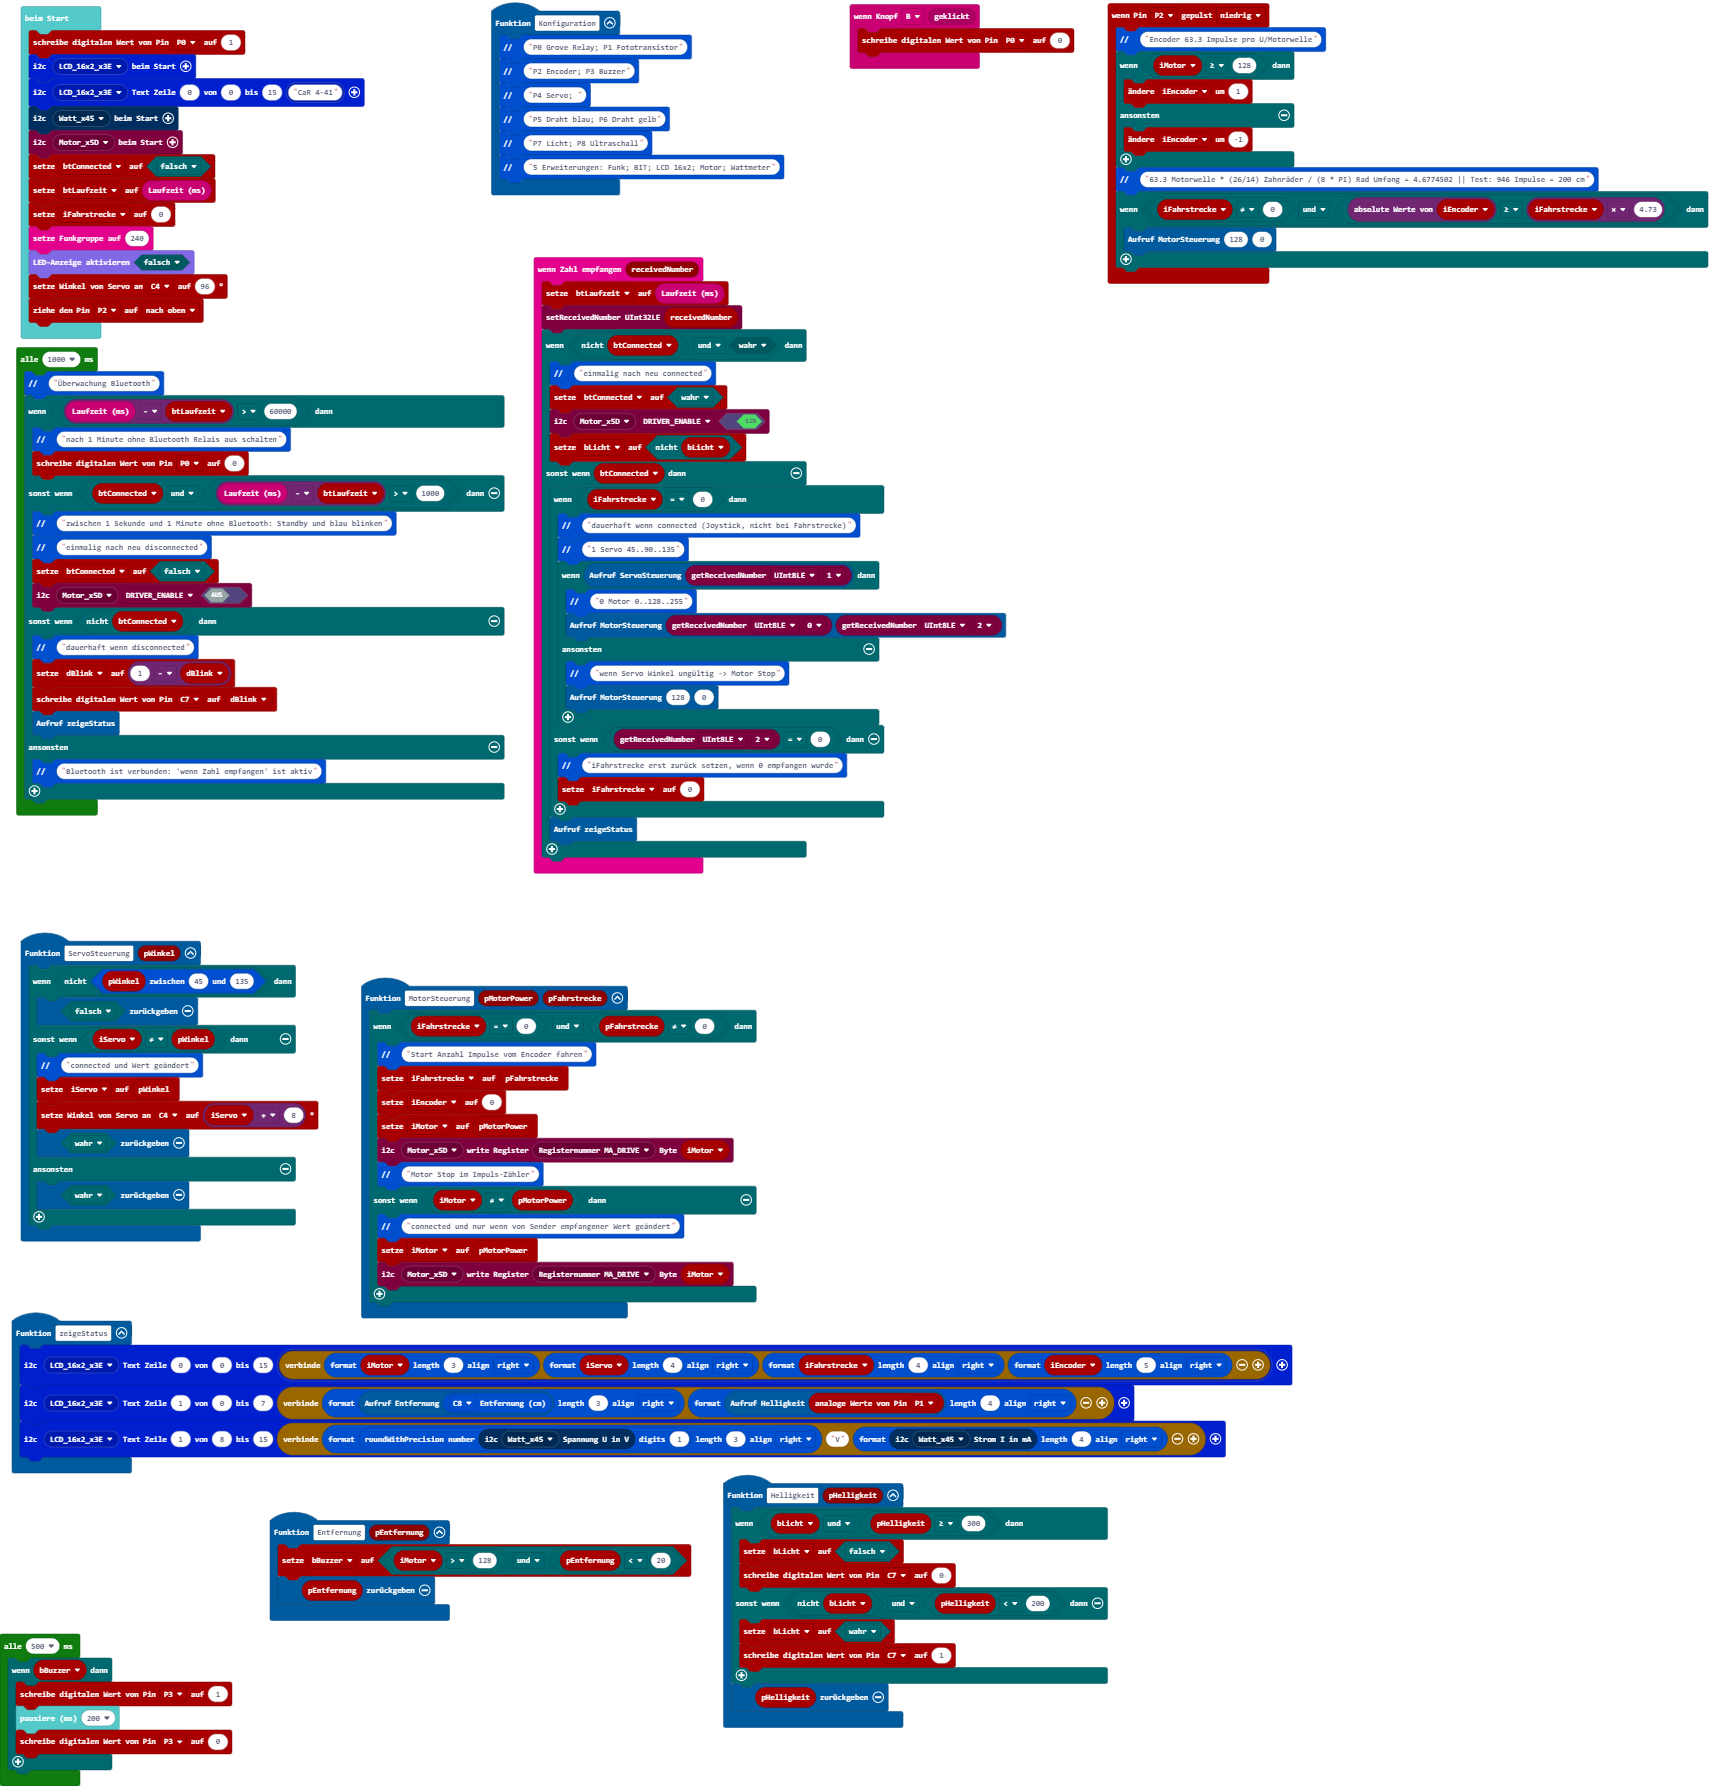
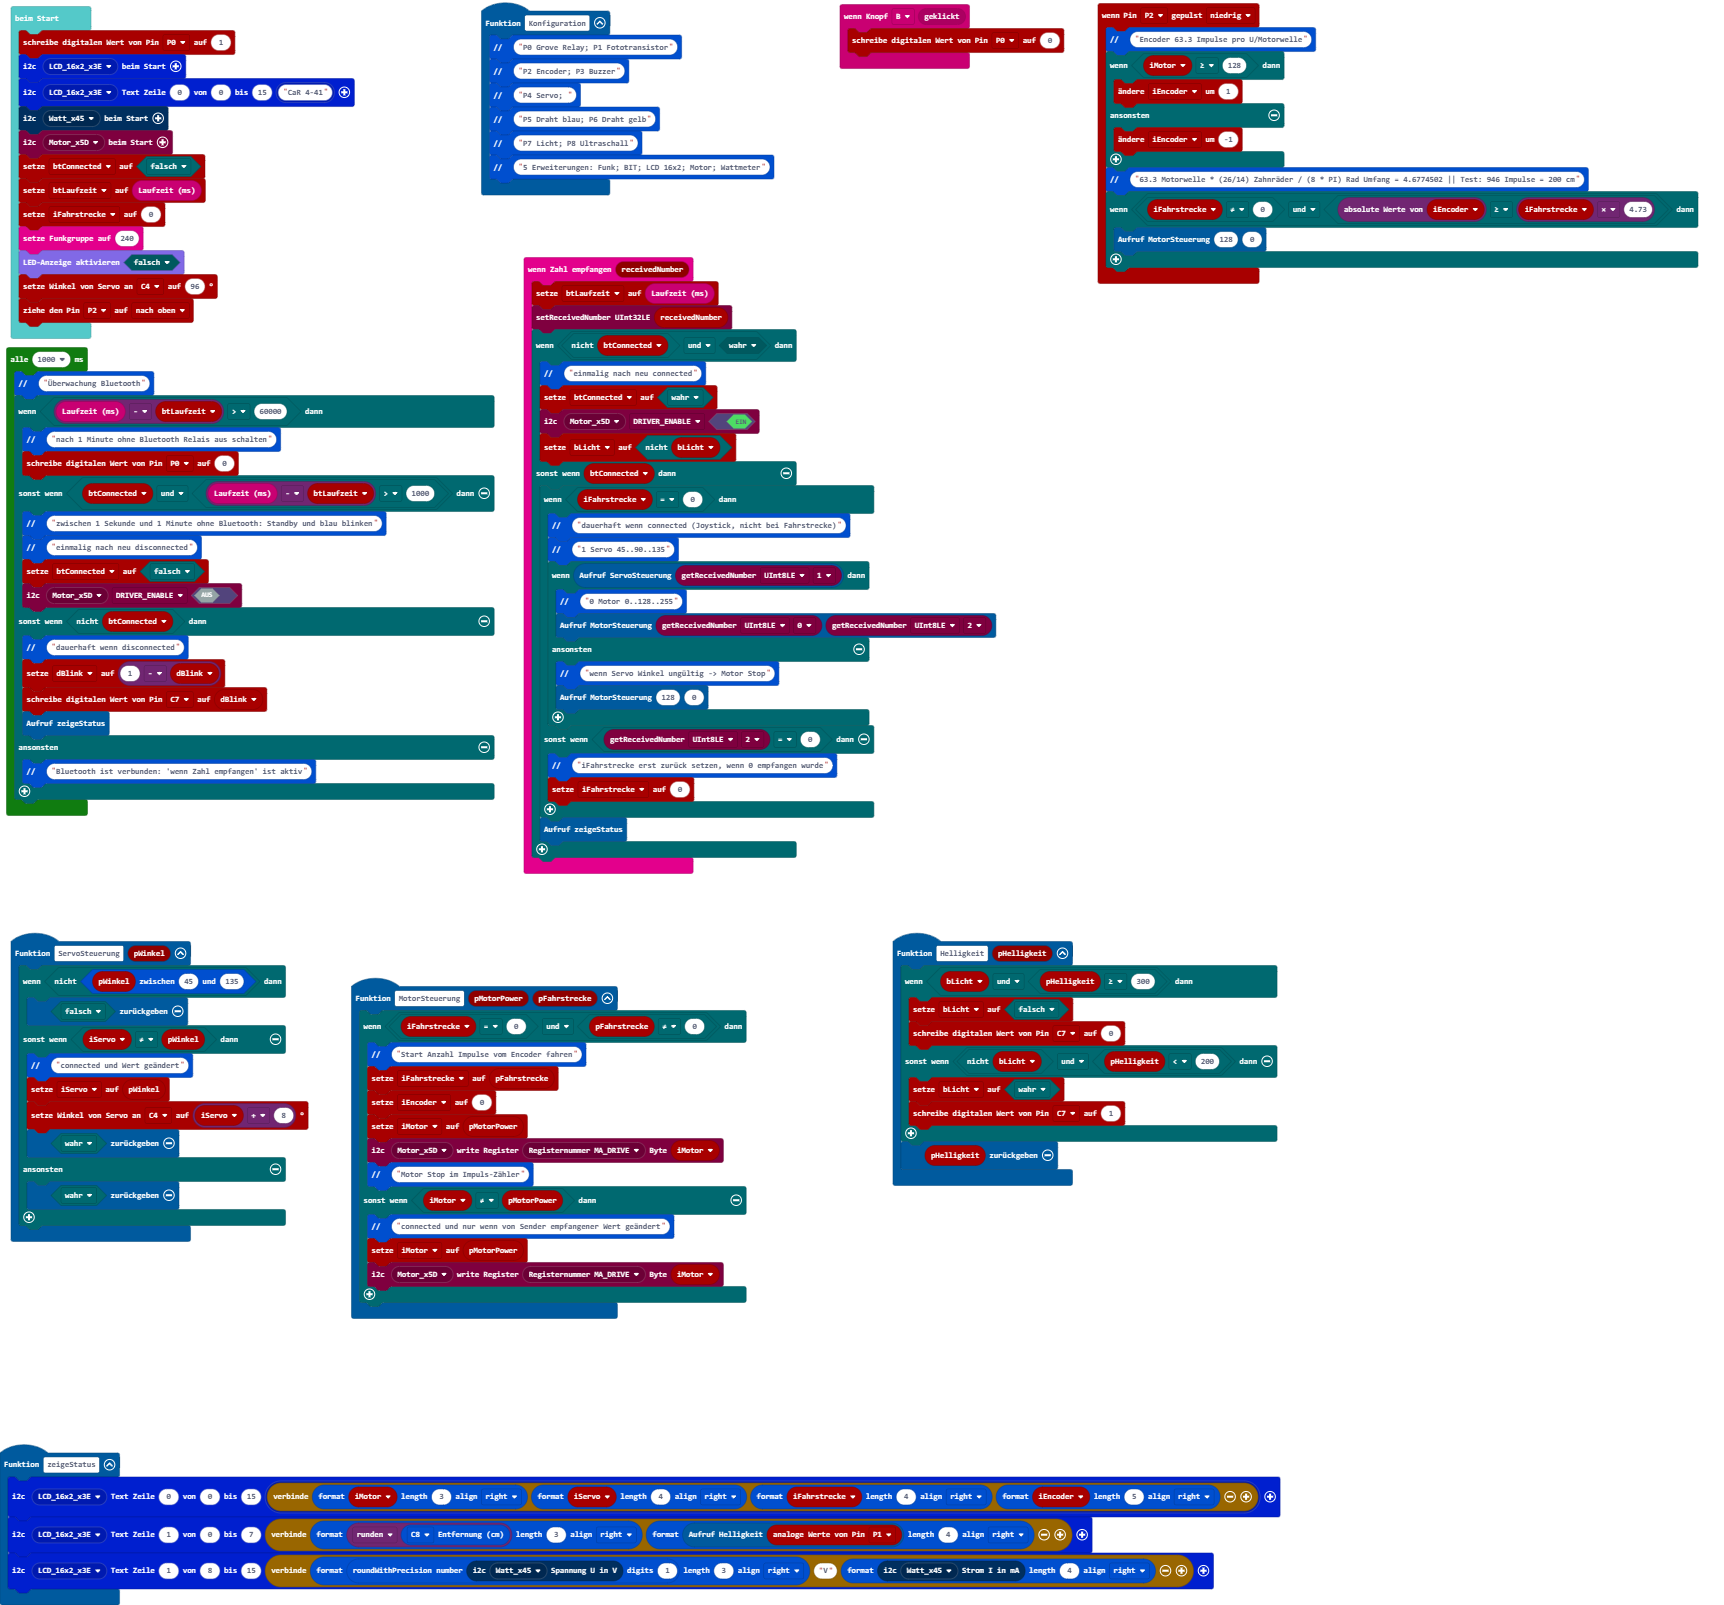
'1.1.2024, 19:39:37 Aktualisiere main.blocks, main.ts ' wiederherstellen '

diff --git a/main.ts b/main.ts
@@ -38,13 +38,9 @@ function MotorSteuerung (pMotorPower: number, pFahrstrecke: number) {
         qwiicmotor.writeRegister(qwiicmotor.qwiicmotor_eADDR(qwiicmotor.eADDR.Motor_x5D), qwiicmotor.qwiicmotor_eRegister(qwiicmotor.eRegister.MA_DRIVE), iMotor)
     }
 }
-function Entfernung (pEntfernung: number) {
-    bBuzzer = iMotor > 128 && pEntfernung < 20
-    return pEntfernung
-}
 function zeigeStatus () {
     lcd16x2rgb.writeText(lcd16x2rgb.lcd16x2_eADDR(lcd16x2rgb.eADDR_LCD.LCD_16x2_x3E), 0, 0, 15, lcd16x2rgb.lcd16x2_text("" + bit.formatText(iMotor, 3, bit.eAlign.right) + bit.formatText(iServo, 4, bit.eAlign.right) + bit.formatText(iFahrstrecke, 4, bit.eAlign.right) + bit.formatText(iEncoder, 5, bit.eAlign.right)))
-    lcd16x2rgb.writeText(lcd16x2rgb.lcd16x2_eADDR(lcd16x2rgb.eADDR_LCD.LCD_16x2_x3E), 1, 0, 7, "" + bit.formatText(Entfernung(bit.measureInCentimeters(DigitalPin.C8)), 3, bit.eAlign.right) + bit.formatText(Helligkeit(pins.analogReadPin(AnalogPin.P1)), 4, bit.eAlign.right))
+    lcd16x2rgb.writeText(lcd16x2rgb.lcd16x2_eADDR(lcd16x2rgb.eADDR_LCD.LCD_16x2_x3E), 1, 0, 7, "" + bit.formatText(Math.round(bit.measureInCentimeters(DigitalPin.C8)), 3, bit.eAlign.right) + bit.formatText(Helligkeit(pins.analogReadPin(AnalogPin.P1)), 4, bit.eAlign.right))
     lcd16x2rgb.writeText(lcd16x2rgb.lcd16x2_eADDR(lcd16x2rgb.eADDR_LCD.LCD_16x2_x3E), 1, 8, 15, "" + bit.formatText(bit.roundWithPrecision(wattmeter.get_bus_voltage_V(wattmeter.wattmeter_eADDR(wattmeter.eADDR.Watt_x45)), 1), 3, bit.eAlign.right) + "V" + bit.formatText(wattmeter.get_current_mA(wattmeter.wattmeter_eADDR(wattmeter.eADDR.Watt_x45)), 4, bit.eAlign.right))
 }
 input.onButtonEvent(Button.B, input.buttonEventClick(), function () {
@@ -94,7 +90,6 @@ function ServoSteuerung (pWinkel: number) {
 }
 let dBlink = 0
 let iServo = 0
-let bBuzzer = false
 let iEncoder = 0
 let iMotor = 0
 let bLicht = false
@@ -130,12 +125,5 @@ loops.everyInterval(1000, function () {
         zeigeStatus()
     } else {
         bit.comment("Bluetooth ist verbunden: 'wenn Zahl empfangen' ist aktiv")
-    }
-})
-loops.everyInterval(500, function () {
-    if (bBuzzer) {
-        pins.digitalWritePin(DigitalPin.P3, 1)
-        basic.pause(200)
-        pins.digitalWritePin(DigitalPin.P3, 0)
     }
 })
